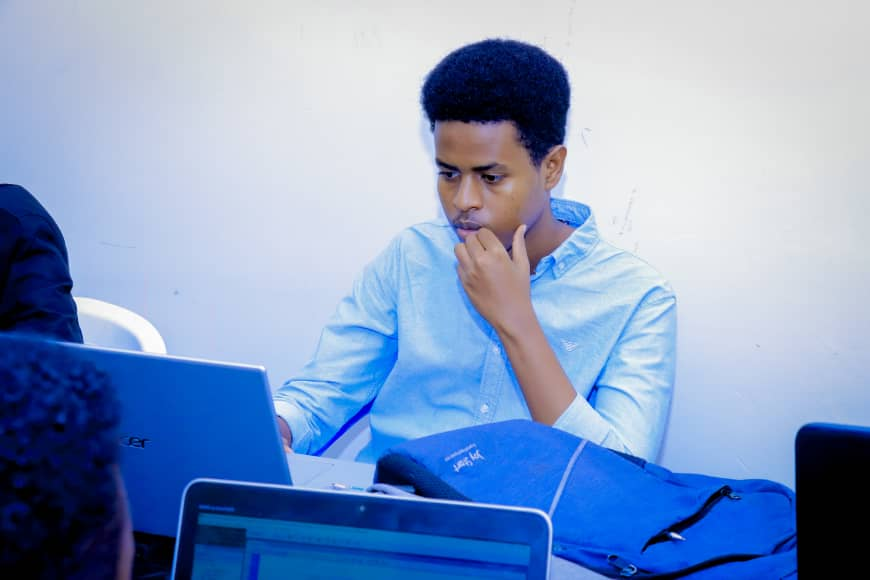
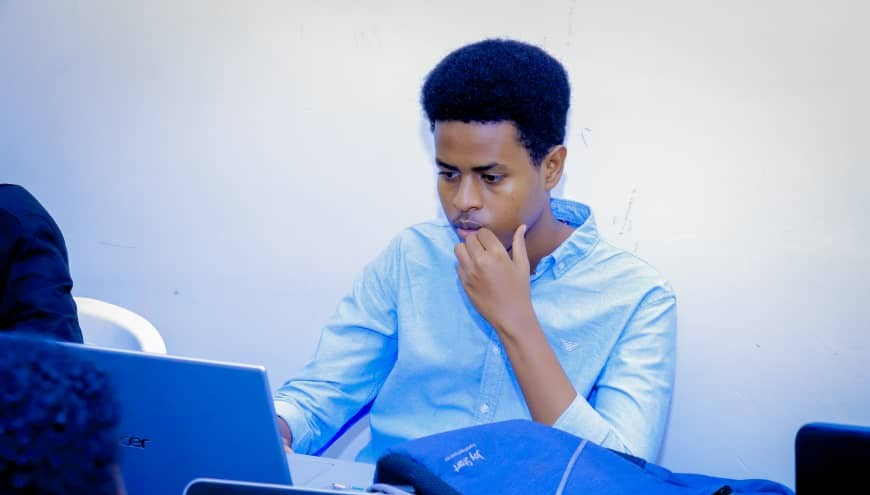
add some extra feature and add links to socials

diff --git a/src/app/contact/page.js b/src/app/contact/page.js
@@ -105,7 +105,7 @@ export default function ContactPage() {
                   href="mailto:hello@example.com"
                   className="text-lg font-semibold dark:text-white hover:text-blue-600 dark:hover:text-blue-400"
                 >
-                  hello@example.com
+                  abdilahi1055@gmail.com
                 </a>
               </div>
               <div>
@@ -113,7 +113,15 @@ export default function ContactPage() {
                   Location
                 </p>
                 <p className="text-lg font-semibold dark:text-white">
-                  Remote / London
+                  Remote / Hargeisa, Somaliland
+                </p>
+              </div>
+              <div>
+                <p className="text-sm uppercase tracking-[0.2em] text-blue-600 mb-1">
+                  Phone
+                </p>
+                <p className="text-lg font-semibold dark:text-white">
+                  +252 63 3981055 / +252 65 3981055
                 </p>
               </div>
               <div>
@@ -130,9 +138,14 @@ export default function ContactPage() {
                 </p>
                 <div className="flex gap-3">
                   {[
-                    { label: "LinkedIn", href: "#" },
-                    { label: "GitHub", href: "#" },
-                    { label: "Twitter", href: "#" },
+                    {
+                      label: "LinkedIn",
+                      href: "https://www.linkedin.com/in/abdilahi-a-1303a224b/",
+                    },
+                    {
+                      label: "GitHub",
+                      href: "https://github.com/Abdulahia-39",
+                    },
                   ].map((item) => (
                     <a
                       key={item.label}

diff --git a/src/components/hero.js b/src/components/hero.js
@@ -1,7 +1,7 @@
 "use client";
 
 import { motion } from "framer-motion";
-import { ArrowRight, Github, Twitter } from "lucide-react";
+import { ArrowRight, Github, Linkedin, Twitter } from "lucide-react";
 import Image from "next/image";
 import profile from "@/assets/profile_card.jpg";
 import Link from "next/link";
@@ -110,12 +110,18 @@ export default function Hero() {
           </Link>
 
           <div className="flex items-center gap-3">
-            <button className="p-4 rounded-xl border border-black/10 dark:border-white/10 text-zinc-900 dark:text-zinc-100 hover:bg-gray-50 dark:hover:bg-zinc-900 transition-colors">
+            <Link
+              href="https://github.com/Abdulahia-39"
+              className="p-4 rounded-xl border border-black/10 dark:border-white/10 text-zinc-900 dark:text-zinc-100 hover:bg-gray-50 dark:hover:bg-zinc-900 transition-colors"
+            >
               <Github size={20} />
-            </button>
-            <button className="p-4 rounded-xl border border-black/10 dark:border-white/10 text-zinc-900 dark:text-zinc-100 hover:bg-gray-50 dark:hover:bg-zinc-900 transition-colors">
-              <Twitter size={20} />
-            </button>
+            </Link>
+            <Link
+              href="https://www.linkedin.com/in/abdilahi-a-1303a224b/"
+              className="p-4 rounded-xl border border-black/10 dark:border-white/10 text-zinc-900 dark:text-zinc-100 hover:bg-gray-50 dark:hover:bg-zinc-900 transition-colors"
+            >
+              <Linkedin size={20} />
+            </Link>
           </div>
         </motion.div>
       </motion.div>

diff --git a/src/data/projects.js b/src/data/projects.js
@@ -81,22 +81,22 @@ export const projects = [
   },
   {
     id: 4,
-    slug: "fluid-motion",
-    title: "Fluid Motion",
-    category: "Animation",
-    imgs: [aiHome, aiChat, aiexpense, aiGoals],
-    isMobile: true,
+    slug: "baal-tailor",
+    title: "Baal Tailor - Loola ai",
+    category: "Desktop",
     size: "md:col-span-2",
-    color: "from-emerald-500/20",
+    imgs: [baallogin, baaldash, baalorders, baalinvoice],
+    isMobile: false,
+    color: "from-green-500/20",
     summary:
-      "Library of motion studies exploring depth, softness, and spatial UI transitions.",
-    timeline: "2022",
-    role: "Animation direction",
-    tech: ["Framer", "Spline", "GSAP"],
+      "Baal tailor software is a desktop application designed to streamline the operations of tailoring businesses. It offers features such as customer management, order tracking, inventory management, and invoicing to enhance efficiency and organization. Developed by Loola Ai.",
+    timeline: "2026",
+    role: "Desktop application development",
+    tech: ["Flutter", "Sqlite", "Dart"],
     highlights: [
-      "Componentized motion primitives usable in product environments",
-      "Depth cues via light, blur, and parallax tuned for web performance",
-      "Documented timing ramps and easing recipes to keep teams consistent",
+      "Implemented the invoice generation generation feature using Dart",
+      "Developed a robust backup and restore feature to safeguard user data",
+      "Worked in a team environment following agile methodologies to ensure timely delivery of project milestones",
     ],
   },
 ];

diff --git a/src/components/contact.js b/src/components/contact.js
@@ -49,14 +49,20 @@ export default function Contact() {
 
         {/* Minimal Social Links */}
         <div className="mt-24 flex justify-center gap-8 text-zinc-500 font-medium mx-10">
-          {["LinkedIn", "GitHub", "Twitter", "Instagram"].map((link) => (
-            <a
-              key={link}
-              href="#"
+          {[
+            {
+              social: "LinkedIn",
+              url: "https://www.linkedin.com/in/abdilahi-a-1303a224b/",
+            },
+            { social: "GitHub", url: "https://github.com/Abdulahia-39" },
+          ].map((link) => (
+            <Link
+              key={link.social}
+              href={link.url}
               className="hover:text-blue-600 dark:hover:text-white transition-colors"
             >
-              {link}
-            </a>
+              {link.social}
+            </Link>
           ))}
         </div>
       </div>

diff --git a/src/app/about/page.js b/src/app/about/page.js
@@ -16,10 +16,9 @@ export default function AboutPage() {
             Building thoughtful products with intent.
           </h1>
           <p className="text-lg text-zinc-600 dark:text-zinc-400">
-            I am a fullstack developer focused on performant, animated
-            interfaces and reliable backends. I love collaborating with teams
-            that care about design systems, accessibility, and measurable
-            impact.
+            I am a fullstack developer focused on performant interfaces and
+            reliable backends. I love collaborating with teams that care about
+            design systems, accessibility, and measurable impact.
           </p>
         </div>
       </section>

diff --git a/src/components/experience.js b/src/components/experience.js
@@ -32,8 +32,8 @@ export default function Experience() {
               The tools & <br /> experience.
             </h2>
             <p className="mt-6 text-zinc-500 dark:text-zinc-400 leading-relaxed">
-              I specialize in building modular, scalable, and highly animated
-              web applications that focus on user experience.
+              I specialize in building modular, scalable, and highly secure web
+              and mobile applications that focus on user experience.
             </p>
           </div>
         </div>
